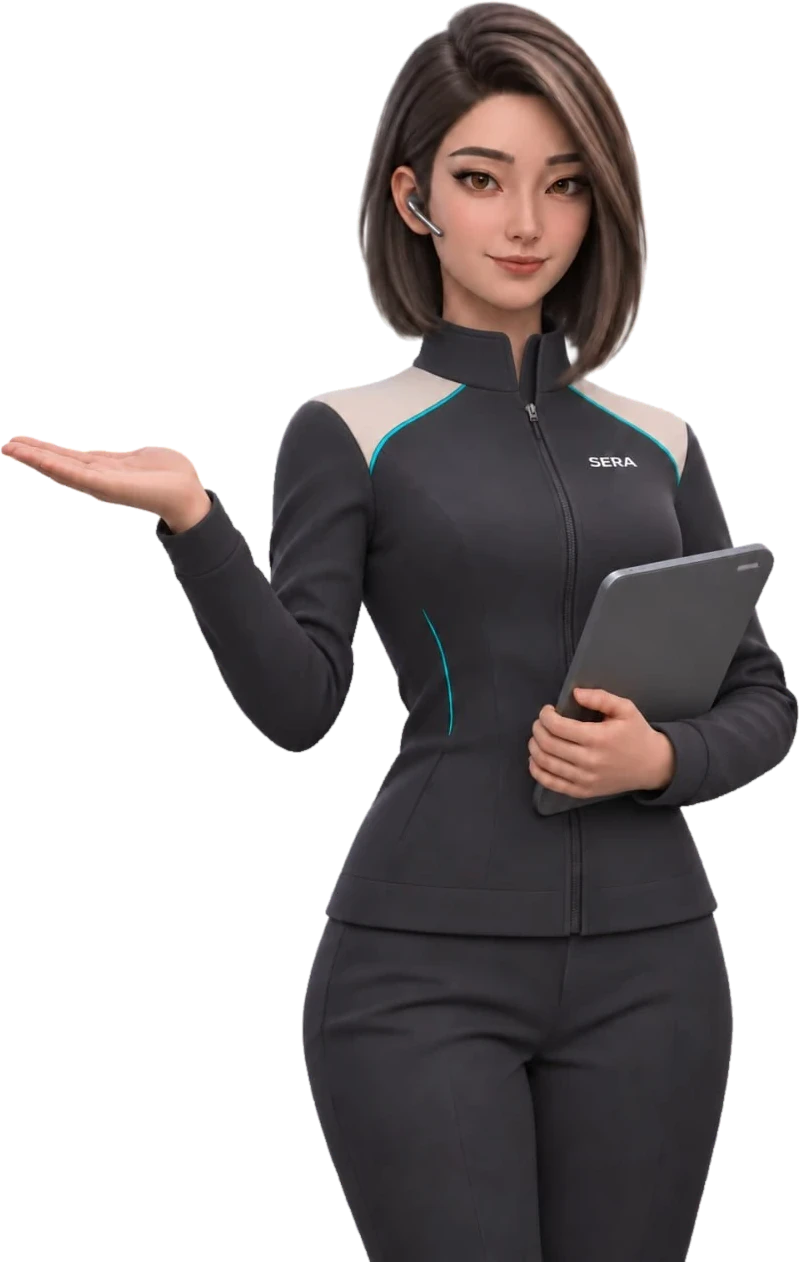
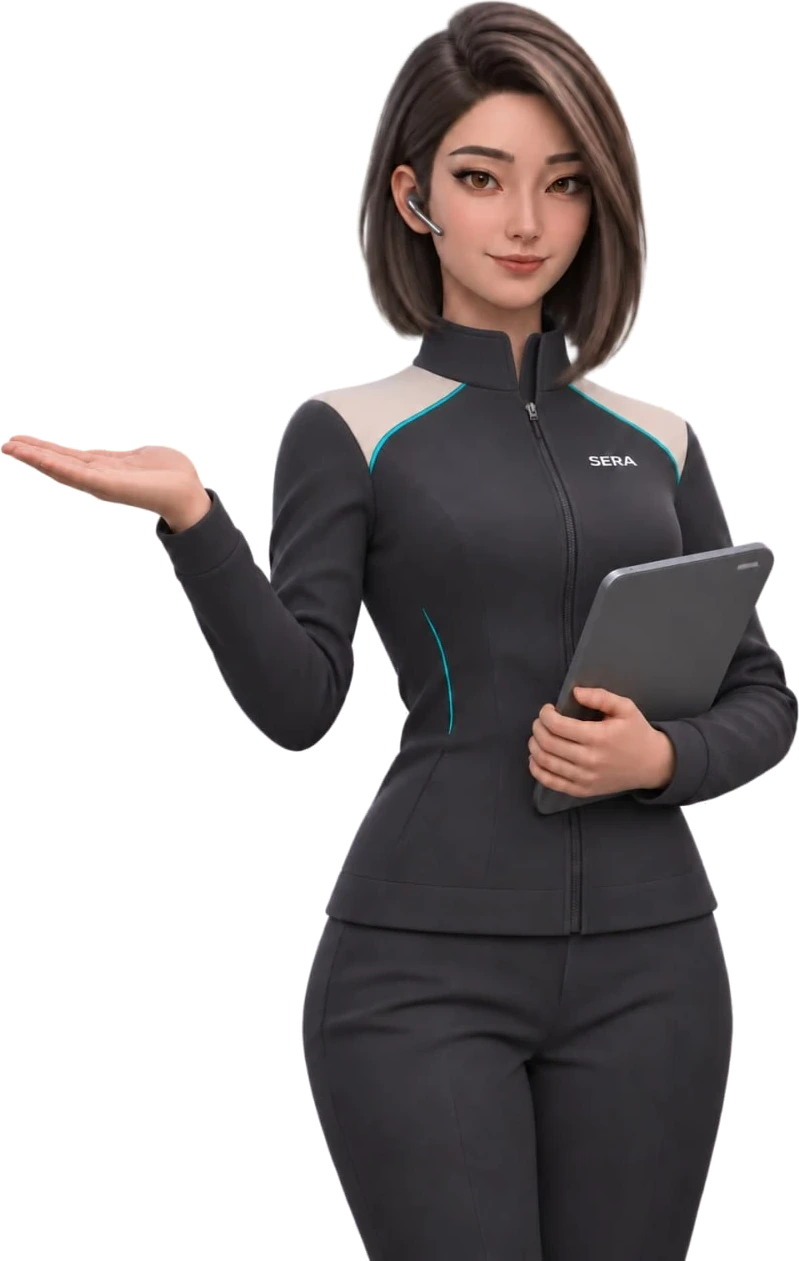
Site hero: smooth cutout edges without a halo; S.E.R.A, Mars and caption centred

diff --git a/css/site.css b/css/site.css
@@ -234,11 +234,12 @@ td a:hover { text-decoration: underline; }
 
 /* Hero: S.E.R.A (AI-generated character) holds the live 3D Mars on her palm.
    The picture is 800 x 1262; the stage is 10 : 11, the picture fills its height on the right
-   (69.7 % of the width). Her palm is at 40 % across and 34.5 % down; the planet (78 % of its box)
+   (69.7 % of the width), moved in by 12.5 % so planet + figure (12.5 % to 87.5 %) sit in the middle,
+   above the centred caption. Her palm is at 27.5 % across and 34.5 % down; the planet (78 % of its box)
    sits just above it, 30 % of the stage wide. */
 .hero-stage { position: relative; width: 100%; aspect-ratio: 10 / 11; }
-.hero-stage .globe-hero { position: absolute; left: 20.8%; top: 5.85%; width: 38.5%; z-index: 1; }
-.hero-stage .hero-sera { position: absolute; right: 0; top: 0; height: 100%; width: auto; z-index: 2; pointer-events: none;
+.hero-stage .globe-hero { position: absolute; left: 8.3%; top: 5.85%; width: 38.5%; z-index: 1; }
+.hero-stage .hero-sera { position: absolute; right: 12.5%; top: 0; height: 100%; width: auto; z-index: 2; pointer-events: none;
   -webkit-mask-image: linear-gradient(to bottom, #000 80%, transparent 99%); mask-image: linear-gradient(to bottom, #000 80%, transparent 99%); }
 .hero-cap { margin: 4px 0 0; text-align: center; color: var(--text); }
 .hero-cap .hero-full { display: block; font: 500 clamp(17px, 2.2vw, 26px)/1.2 var(--font-logo); letter-spacing: .01em; }

diff --git a/index.html b/index.html
@@ -13,7 +13,7 @@
   <link rel="preconnect" href="https://fonts.gstatic.com" crossorigin>
   <link rel="stylesheet" href="https://fonts.googleapis.com/css2?family=Inter:wght@400;500;600;700&family=Space+Grotesk:wght@500;700&family=Montserrat:wght@400;500&display=swap">
   <link rel="stylesheet" href="css/theme.css?v=16">
-  <link rel="stylesheet" href="css/site.css?v=108">
+  <link rel="stylesheet" href="css/site.css?v=109">
 </head>
 <body id="top">
   <header class="nav t-surface">
@@ -63,7 +63,7 @@
           <div id="hero-globe" class="globe globe-hero" role="img" aria-label="Mars turning, made from NASA Viking and MOLA data, with the name S.E.R.A">
             <div class="hero-name" aria-hidden="true"><span class="sera-word">S.E.R.A</span></div>
           </div>
-          <img class="hero-sera" src="img/sera-hold.webp?v=1" width="800" height="1262" alt="S.E.R.A, our fictional AI assistant (AI-generated character), holding Mars on her palm">
+          <img class="hero-sera" src="img/sera-hold.webp?v=2" width="799" height="1261" alt="S.E.R.A, our fictional AI assistant (AI-generated character), holding Mars on her palm">
         </div>
         <figcaption class="hero-cap"><span class="hero-full">Safe Exploration &amp; Return Assistant</span><span class="hero-ai">S.E.R.A AND LOGO: AI-GENERATED CHARACTER · MARS: NASA VIKING + MOLA</span></figcaption>
       </figure>

diff --git a/sw.js b/sw.js
@@ -6,7 +6,7 @@
 //  - NASA Mars Trek map tiles and Curiosity photos: cache first, up to 3000 files;
 //  - live space weather (api.nasa.gov, NOAA) is not cached here: the app keeps its own copy.
 
-var VERSION = 'sera-v10';                // change when our files change, so old copies are dropped
+var VERSION = 'sera-v11';                // change when our files change, so old copies are dropped
 var CORE = VERSION + '-core';
 var TILES = 'sera-v1-tiles';            // map tiles stay across versions (Save offline is kept)
 var MAX_TILES = 3000;
